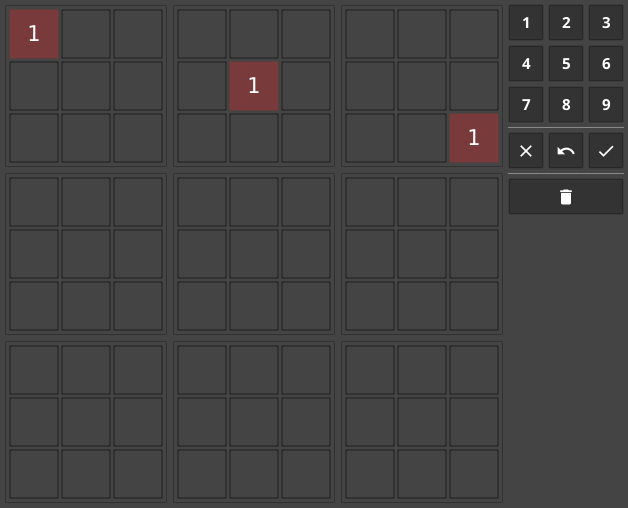
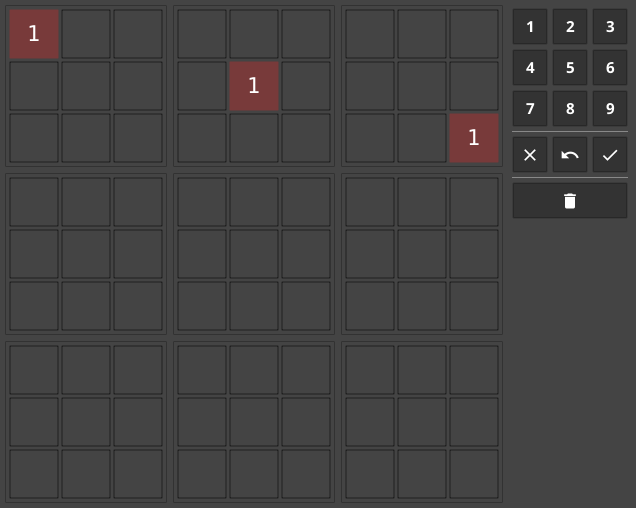
change: pad controls

diff --git a/cmd/main.go b/cmd/main.go
@@ -53,7 +53,7 @@ func uiInit(b *board, w fyne.Window) {
 
 	w.Canvas().SetOnTypedKey(keyHandler(b, values))
 
-	controlArea := container.NewVBox(
+	controlArea := container.NewPadded(container.NewVBox(
 		fyne.NewContainerWithLayout(
 			layout.NewGridLayout(b.boxWidth),
 			controls...,
@@ -76,6 +76,7 @@ func uiInit(b *board, w fyne.Window) {
 		widget.NewSeparator(),
 		widget.NewButtonWithIcon("", theme.DeleteIcon(), b.Reset),
 	)
+	))
 
 	w.SetContent(container.NewBorder(
 		nil, nil, nil,
